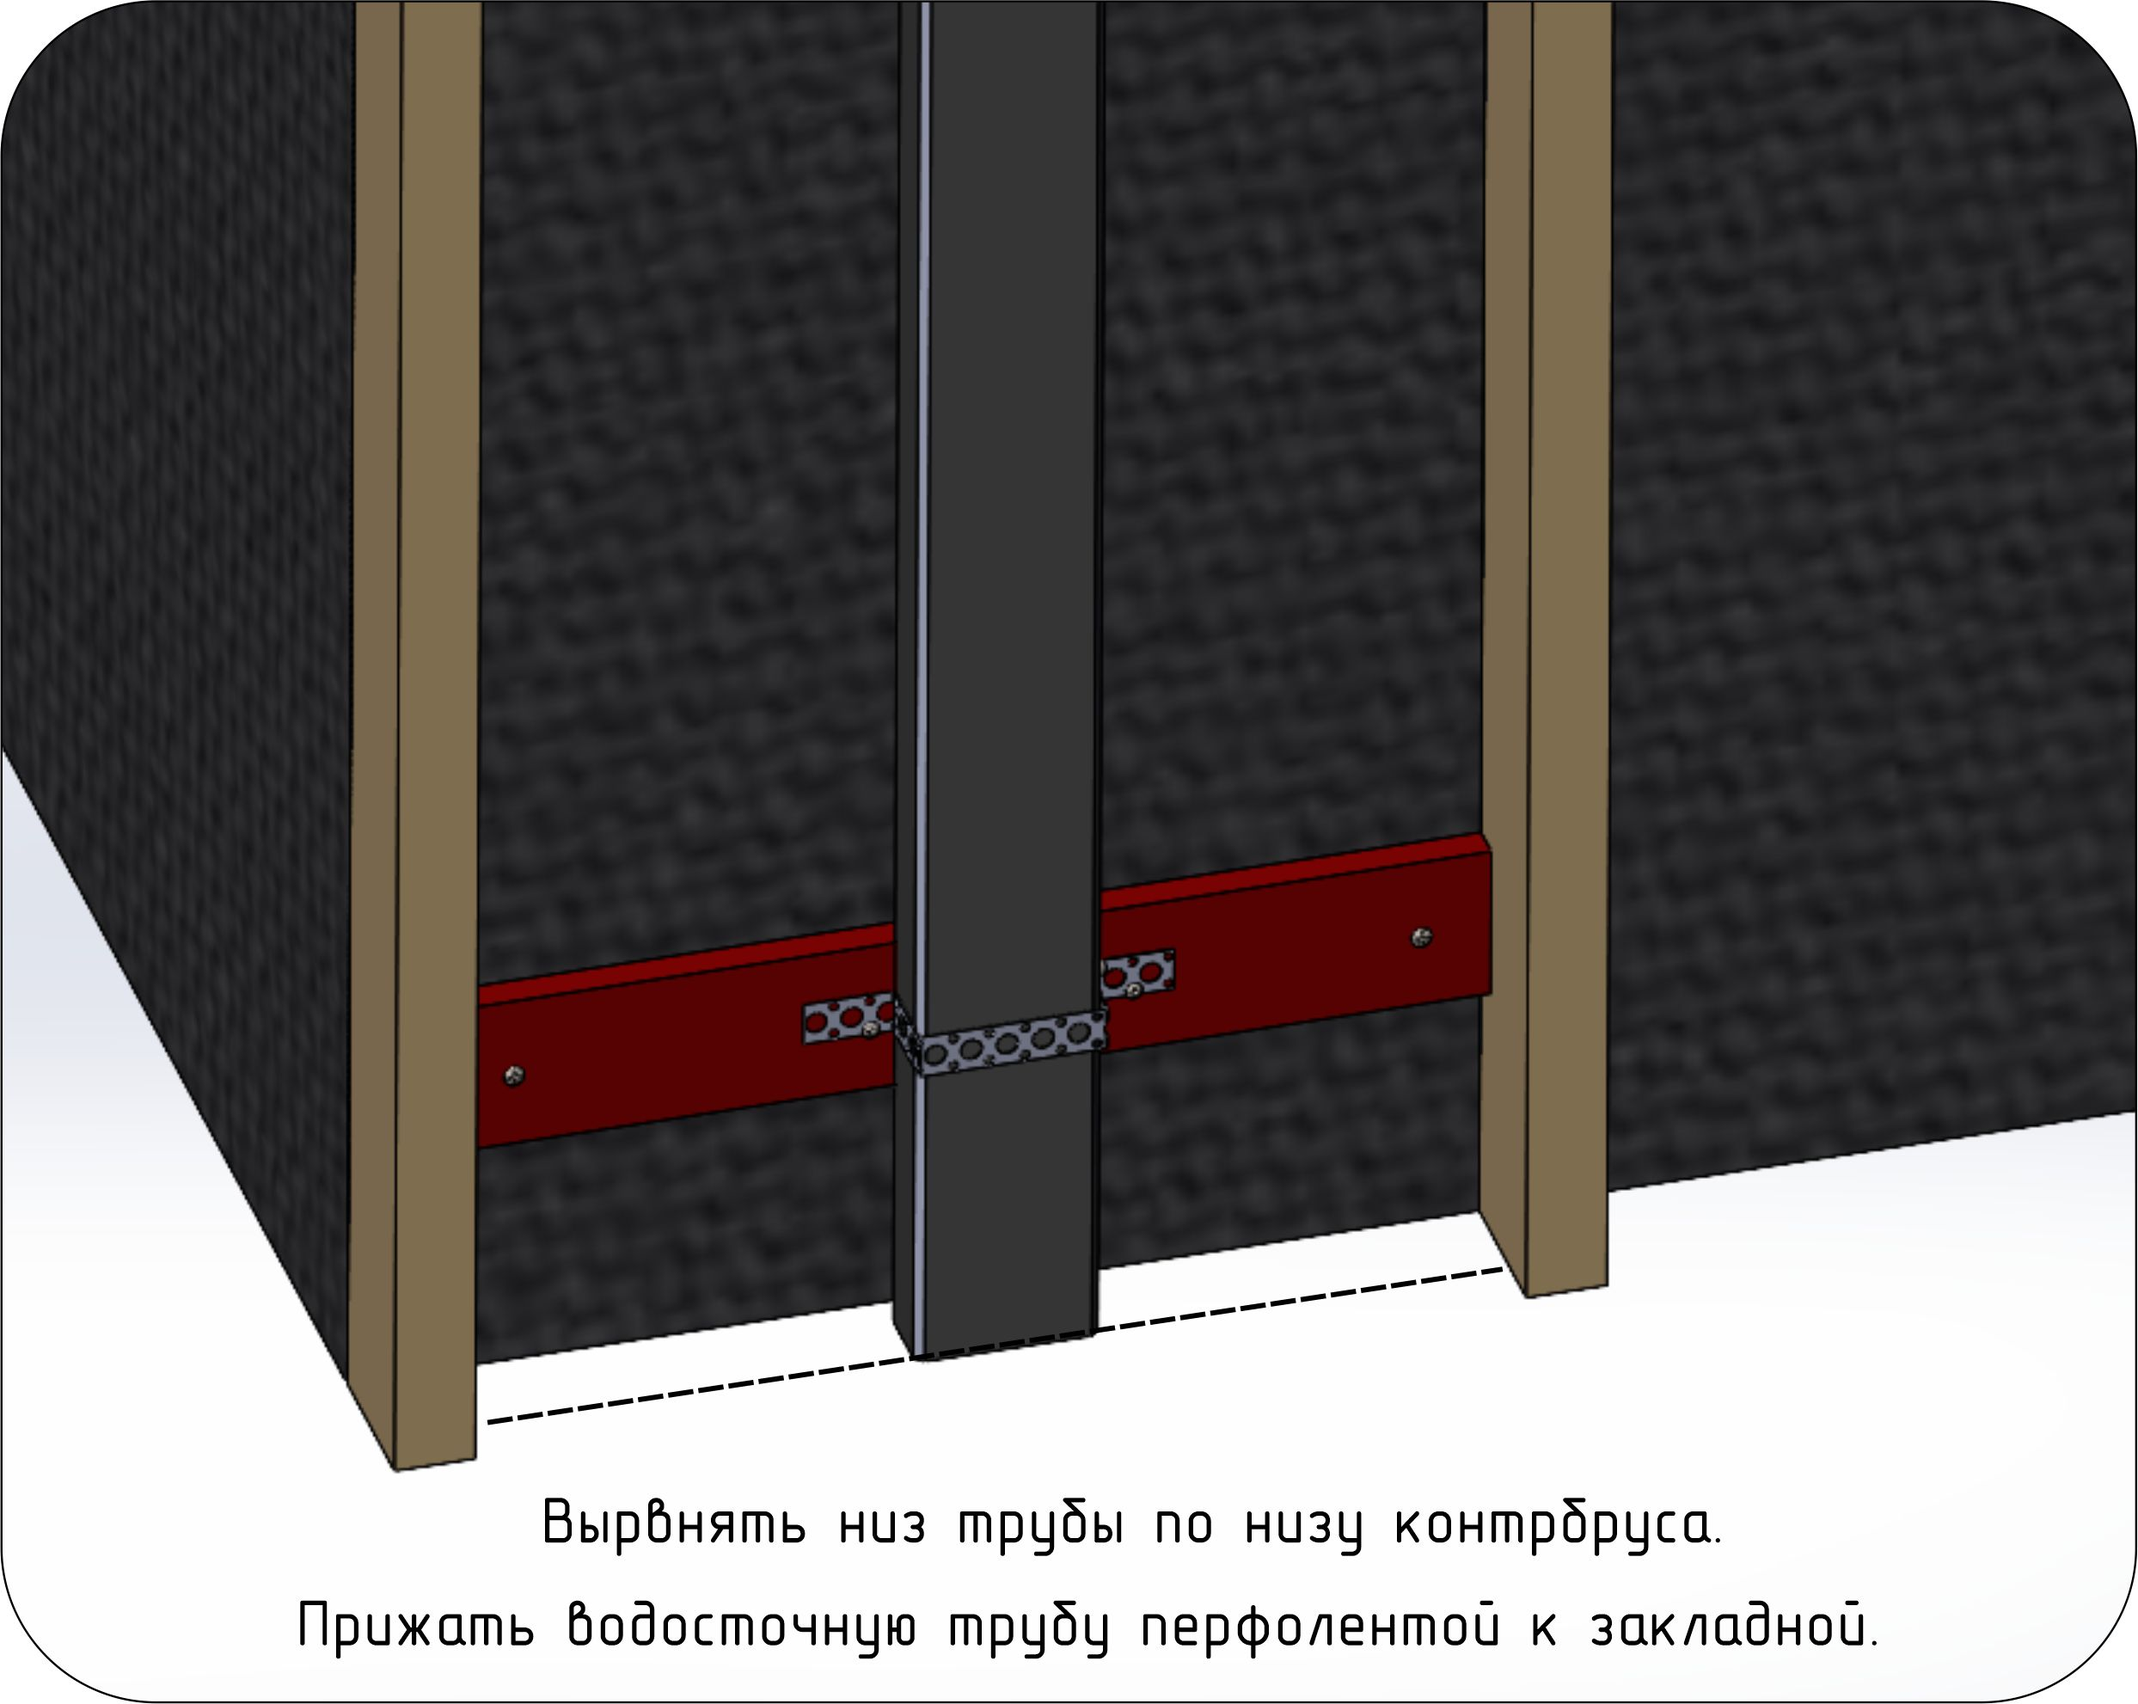
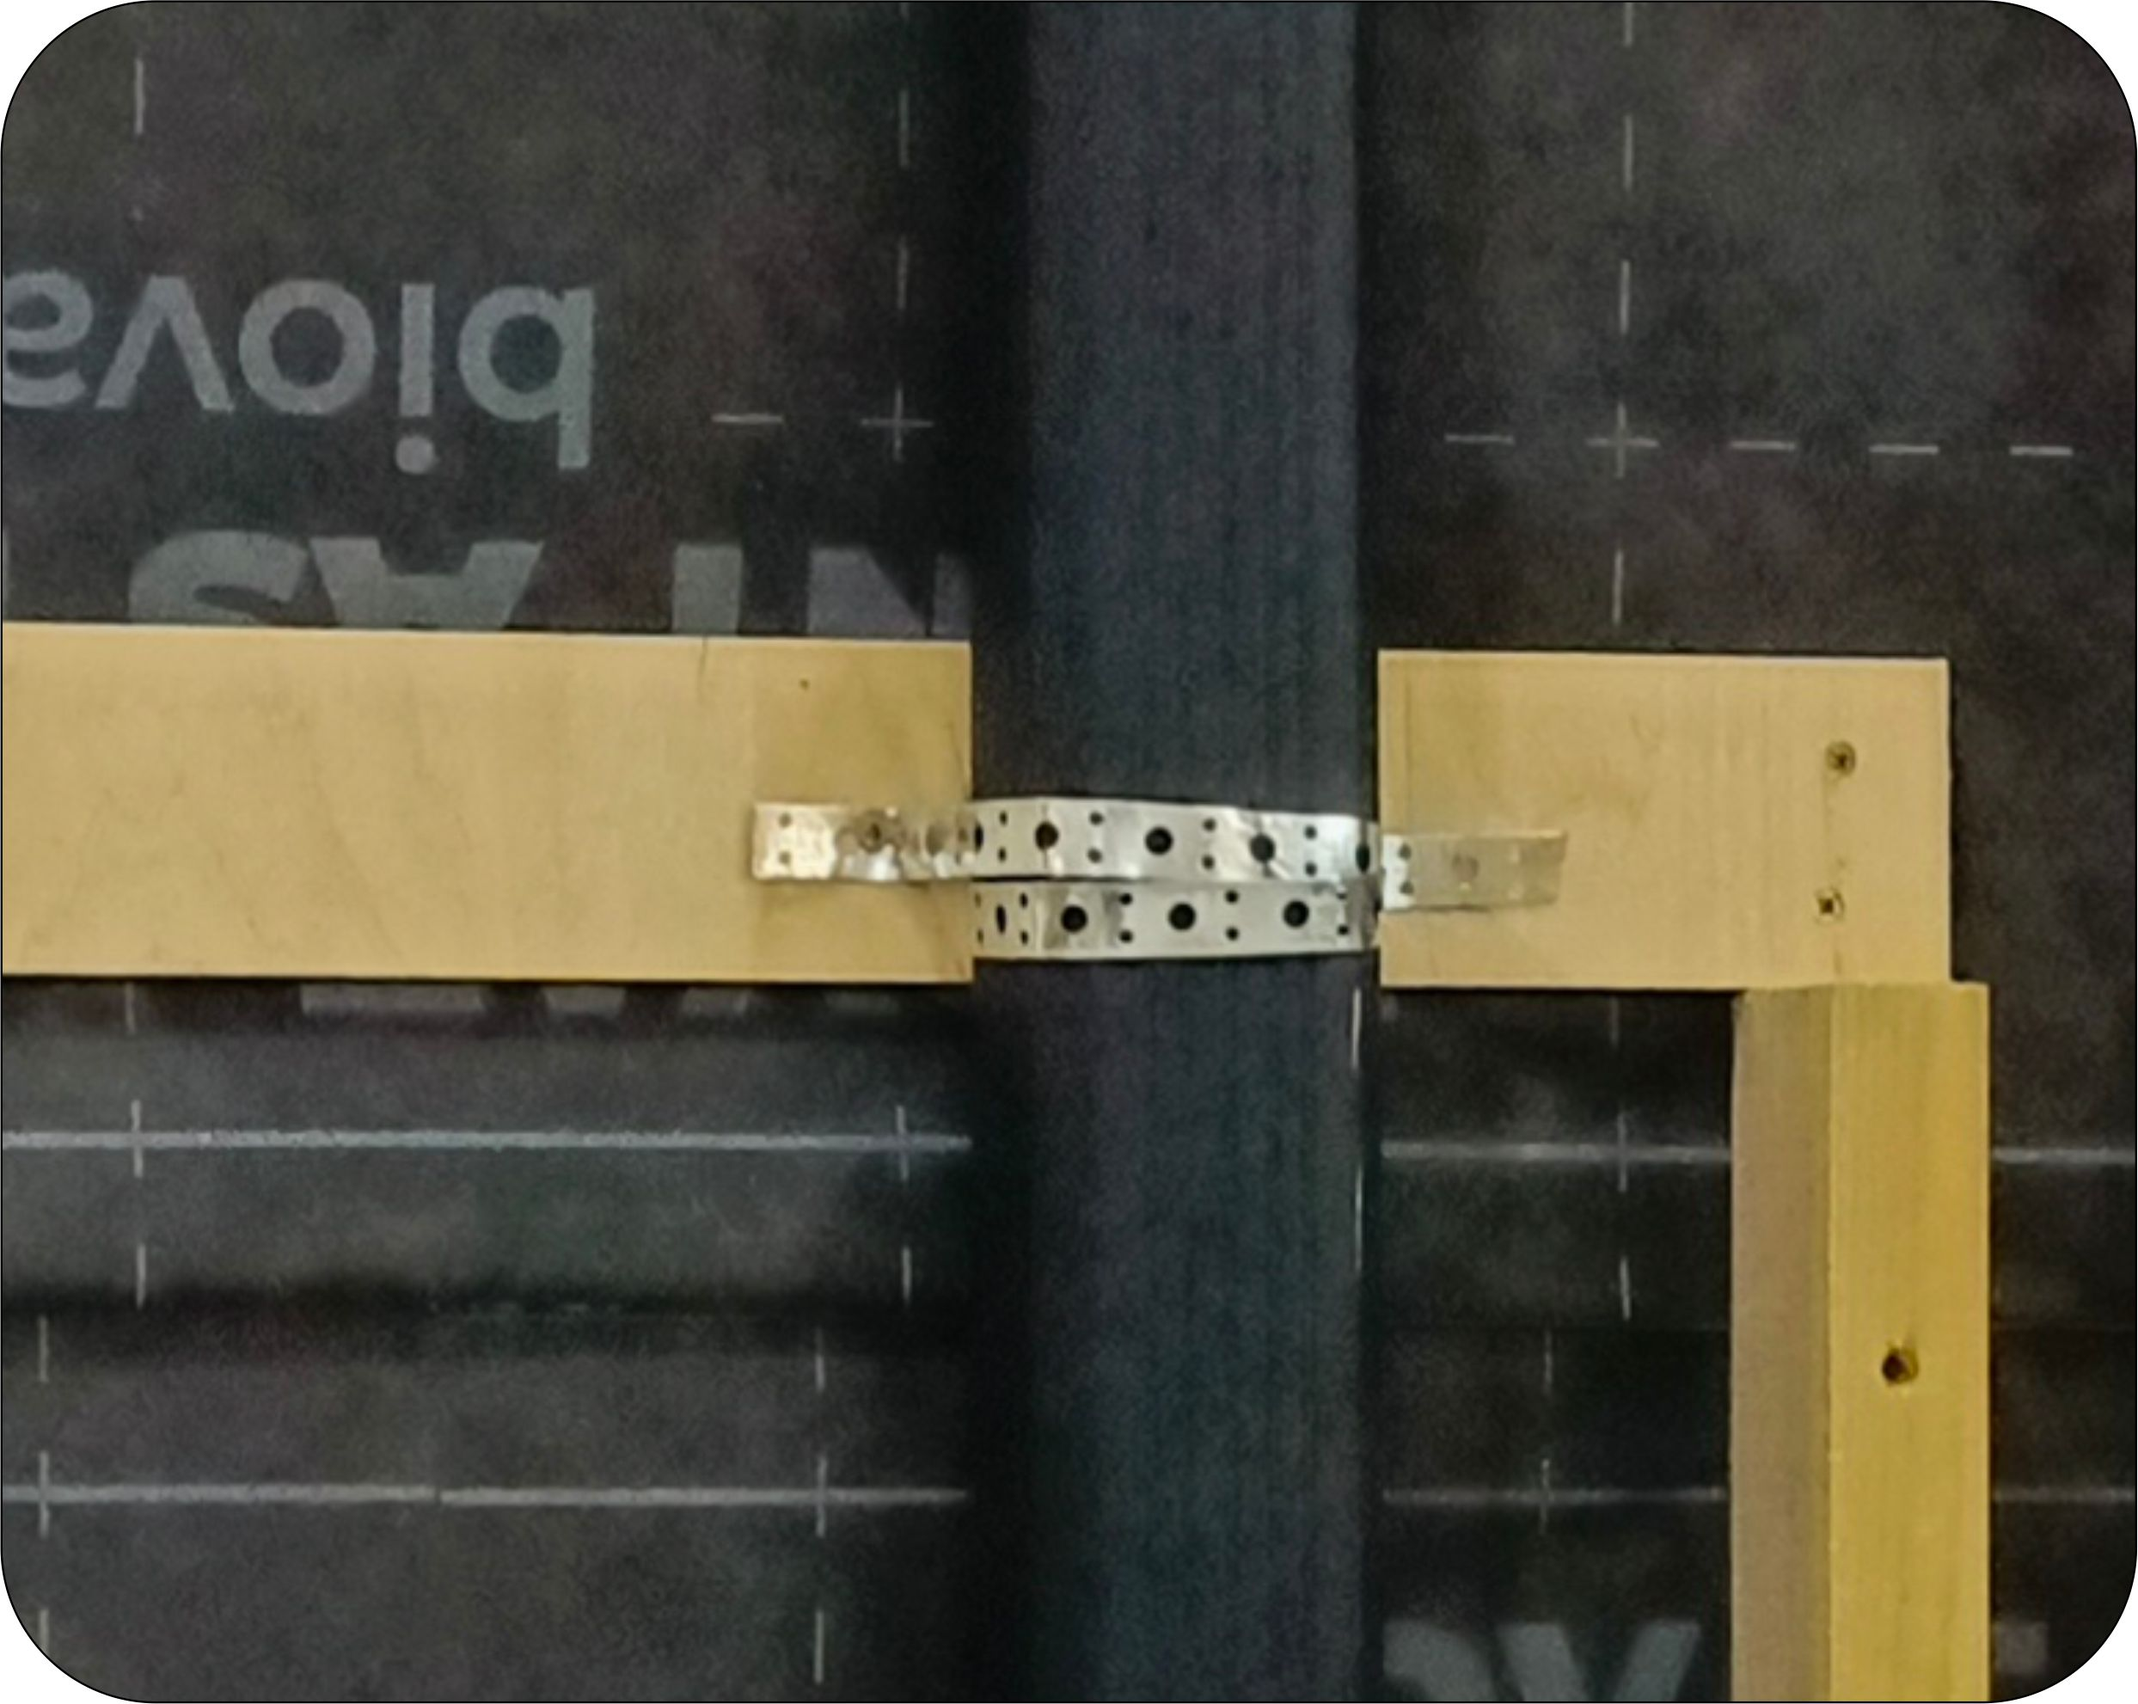
Скорректирован раздел 5.3.14 в даче и скауте, добавлены актуальные картинки

diff --git a/PWP_Scout-2.0/5.3/5.3.14.html b/PWP_Scout-2.0/5.3/5.3.14.html
@@ -102,18 +102,19 @@
                     <p>Производимые операции:</p>
                     <ol>
                         <li class="mainText">
-                            В зоне установки водосточной трубы закрепить две закладных из фанеры 9х90мм, обработанных антисептиком. 
+                            В зоне установки водосточной трубы закрепить: по середине модуля в разрыве вертикального контрбруса - закладную из фанеры 9х90мм, обработанных антисептиком, снизу - кронштейн-хомут для водосточной трубы. 
                             Крепить на саморезы ЖЦ 5х60.
                         </li>
+                        <img class="sketches" src="../Image/I_5.3/5.3.14/5.3.14-1-2.jpg" alt="монтаж закладных">
                         <img class="sketches" src="../Image/I_5.3/5.3.14/5.3.14-1.jpg" alt="монтаж закладных">
                         <li class="mainText">
-                            Вставить в вывод водосточной воронки водосточную трубу. Выровнять низ трубы по низу контрбруса и 
-                            прижать трубу перфорированной лентой к установленной закладной. Ленту крепить на саморезы ЖЦ 5х60.
+                            Вставить в вывод водосточной воронки водосточную трубу. Выровнять низ трубы по низу контрбруса. Закрепить трубу в хомуте для водосточной трубы.
+                            Центр трубы обернуть один раз в обхват перфорированной лентой, и закрепить ленту к установленной закладной из фанеры. Ленту крепить на саморезы ЖЦ 5х60.
                         </li>
                         <img class="sketches" src="../Image/I_5.3/5.3.14/5.3.14-2.jpg" alt="установка водосточной трубы">
                         <img class="sketches" src="../Image/I_5.3/5.3.14/5.3.14-3.jpg" alt="выравнивание водосточной трубы">
                         <li class="mainText">
-                            Зафиксировать водосточную трубу перфолентой ко второй закладной. Ленту крепить на саморезы ЖЦ 5х60.
+                            Убедиться, что труба надежно закреплена и не выпадает из креплений.
                         </li>
                         <img class="sketches" src="../Image/I_5.3/5.3.14/5.3.14-4.jpg" alt="установка водосточной трубы">
                     </ol>
